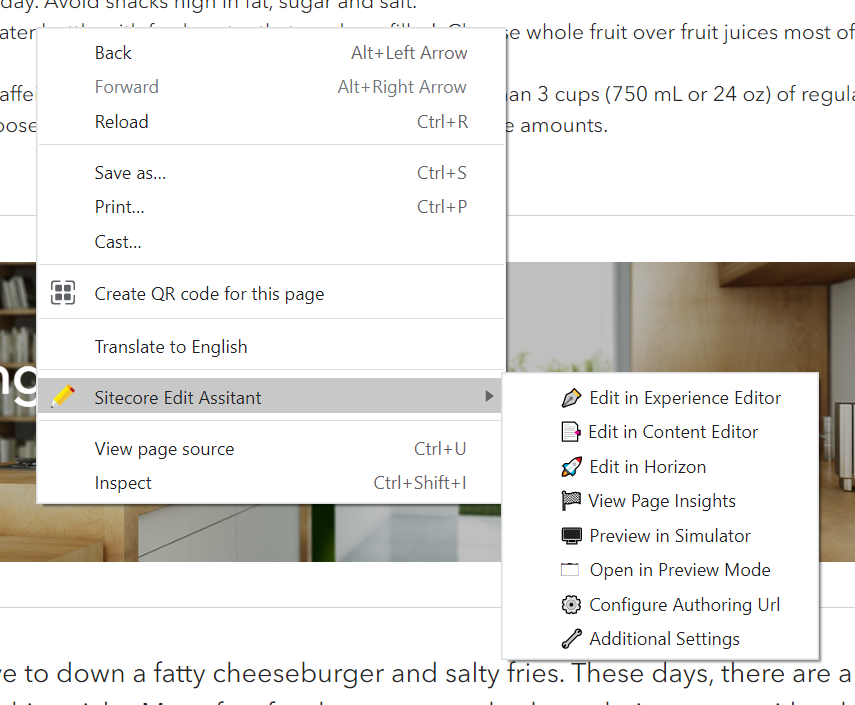
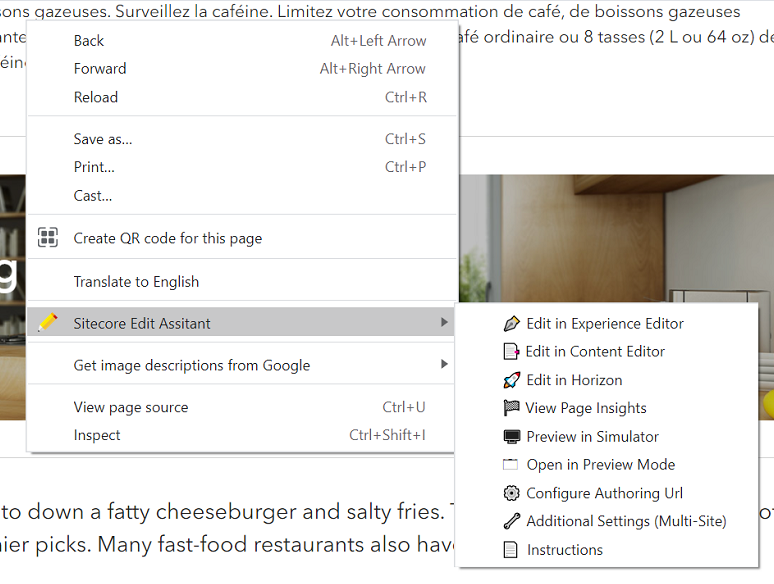
Added Instructions Option

diff --git a/options/options.html b/options/options.html
@@ -16,8 +16,14 @@
       <p class="abstract">This Extension enables the content authors to open associated content in Sitecore(Content Management) straight from Website(Content Delivery)</p>
       <p class="content"><b>To launch associated Experience Editor, Content Editor or Horizon links</b>, you must right-click on the intended website page and select 'Sitecore Edit Assistant' to choose your preferred editing option as shown below. You will be asked to provide the authoring/CM host url, which will be stored in your local browser storage for subsequent requests. </p>
       <img src="../../images/edit-options.png" alt="Sitecore Edit Assistant Edit Options" class="full-width"/>
-      <p class="content"><b>For Multi-site implementation</b>, if the site is not auto-resolving as expected, then you need to right-click and select the 'Additional Settings' option to mention the associated site's name as specified in your site config.  Alternatively, you can preview a page item from Sitecore Content Editor and obtain the site name from 'sc_site' querystring as shown below,</p>
+      <p class="content"><b><span class="danger">IMPORTANT: </span>For Multi-site implementation</b>, you may experience the below issues if the site is not auto-resolving as expected,</p>
+      <ul>
+        <li>'Edit in Content Editor' might redirect to Sitecore login page again even if user is already authenticated.</li>
+        <li>'Edit in Experience Editor' might redirect to 404 Page Not Found Error.</li>
+      </ul>
+      <p class="content">To mitigate this issue, you need to right-click and select the 'Additional Settings (Multi-Site)' option to mention the associated site's name as specified in your site config(if non-SXA site) or <i>/sitecore/content/&lt;tenant&gt;/&lt;site&gt;/Settings/Site Grouping/&lt;site&gt;</i> item(if SXA site).  Alternatively, if you do not have access to site configuration, you can preview a page item from Sitecore Content Editor and obtain the site name from 'sc_site' querystring as shown below,</p>
       <img src="../../images/sc_site-querystring.png" alt="Sitecore Edit Assistant sc_site " class="full-width"/>
+      <p class="content"><b>NOTE: </b>'Edit in Content Editor' can find the associated item only when you are logged in to Sitecore. It might redirect you to Sitecore login page in case if you're not logged in and you may want to try 'Edit in Content Editor' button again after logging in.</p>
       <p class="content">This extension also includes few shortcuts to accelerate the authoring process,</p>
       <ul>
         <li>Ctrl+Shift+X - Edit In Experience Editor</li>

diff --git a/js/modules/quickedit.js b/js/modules/quickedit.js
@@ -18,7 +18,8 @@ const showContextMenu = () => {
     createContextMenu('previewInSimulator', '🖥 Preview in Simulator');
     createContextMenu('openInPreview', '🗔  Open in Preview Mode');
     createContextMenu('settings', '⚙ Configure Authoring Url');
-    createContextMenu('additionalSettings', '🔧 Additional Settings');
+    createContextMenu('additionalSettings', '🔧 Additional Settings (Multi-Site)');
+    createContextMenu('instructions', '📄  Instructions');
 }
 
 const createContextMenu = (id, text) => {
@@ -41,6 +42,10 @@ const contextMenuClickHandler = async (info, tabInfo) => {
 
 const launchEditUrl = async (action, tabInfo) => {
     if (tabInfo) {
+        if(action.indexOf('instructions') != -1){
+            chrome.runtime.openOptionsPage();
+            return;
+        }
         var cdUrl = new URL(tabInfo.url);
         chrome.storage.sync.get([cdUrl.origin], async (storage) => {
             var siteInfo = Object.values(storage)[0];
@@ -89,6 +94,7 @@ const launchEditUrl = async (action, tabInfo) => {
                         break;
                     case "additionalSettings":
                         getSiteName(cdUrl.origin, siteInfo);
+                        localStorage.removeItem(tabInfo.id);
                         break;
                 }
                 if(editUrl != ''){

diff --git a/js/background.js b/js/background.js
@@ -25,7 +25,6 @@ const updateExtension = async (tab, changeInfo) => {
     var isUrl = tabUrl.origin.startsWith("http");
     var isSitecore = tabUrl.pathname.includes("/sitecore/") || tabUrl.search.includes("sc_mode");
 
-    chrome.contextMenus.removeAll();
     chrome.browserAction.setBadgeBackgroundColor({ color: "#ffffff" });
     chrome.browserAction.setBadgeText({ text: "" });
 

diff --git a/options/css/options.css b/options/css/options.css
@@ -46,6 +46,9 @@ body {
   font-size: 1.2em;
   padding: 10px 0px;
 }
+.danger{
+  color: #ee3524;
+}
 .info{
   font-size: 0.9em;
   width: 80%;
